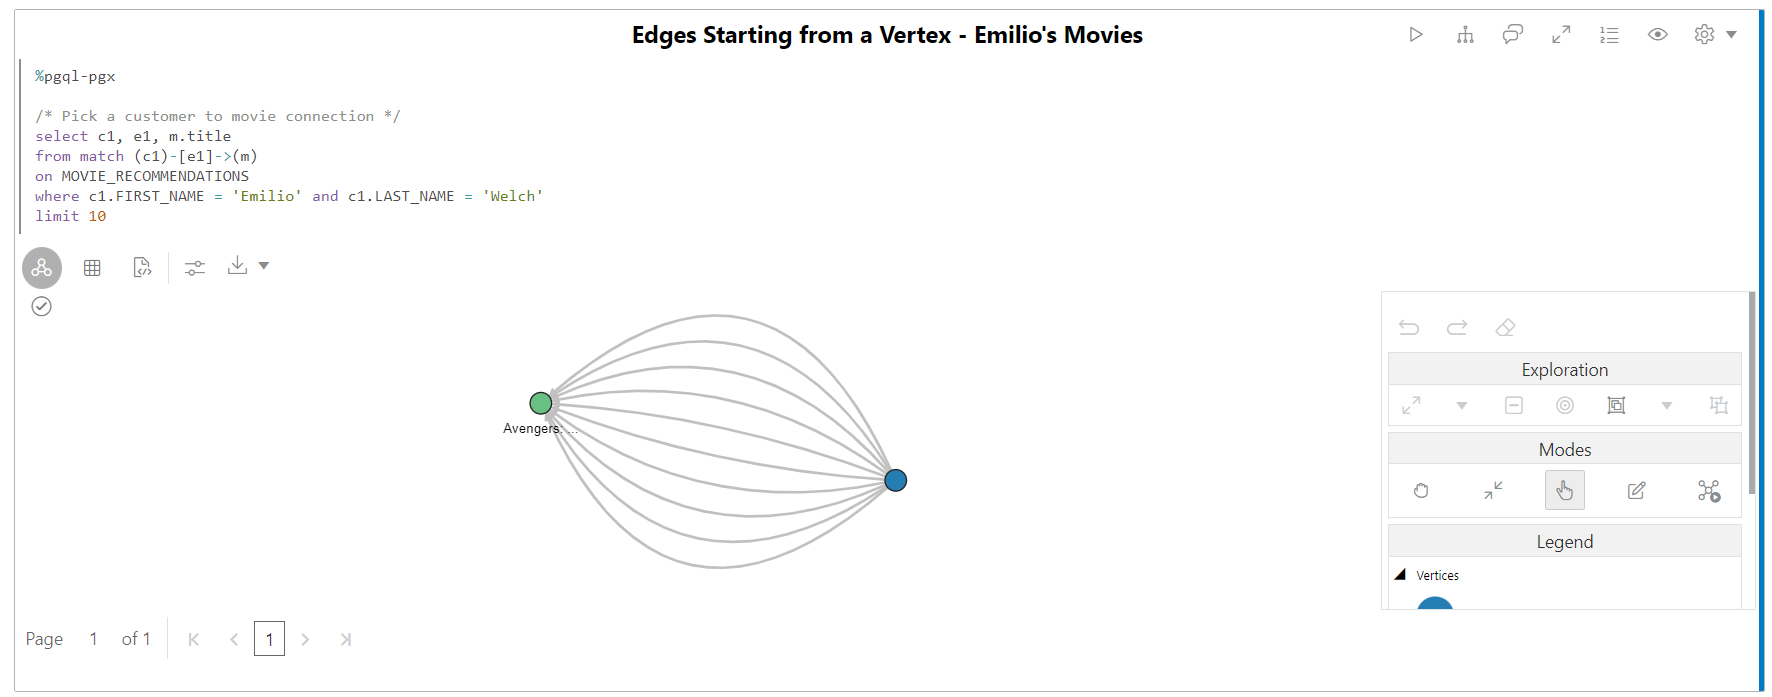
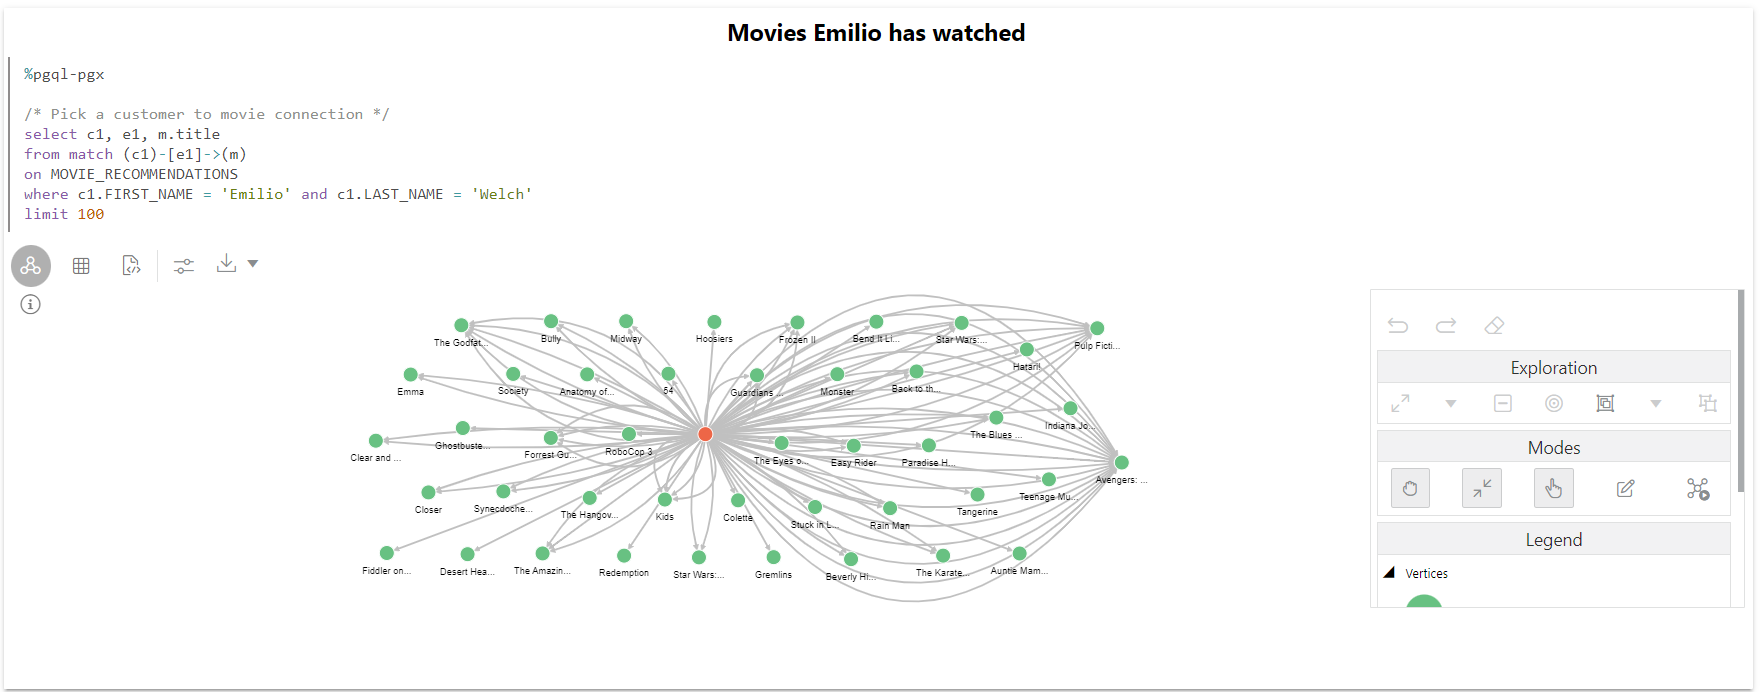
updated livelab

diff --git a/adb-graph/work-with-csv-files/moviestream-graph/query-and-visualize/query-and-visualize.md b/adb-graph/work-with-csv-files/moviestream-graph/query-and-visualize/query-and-visualize.md
@@ -88,69 +88,101 @@ If the compute environment is not ready as yet and the code cannot be executed t
      # try getting the graph from the in-memory graph server
      graph = session.get_graph(GRAPH_NAME);
      # if it does not exist read it into memory
-     if (graph == None) :
+     IF (graph == None) :
          session.read_graph_by_name(GRAPH_NAME, "pg_view")
          print("Graph "+ GRAPH_NAME + " successfully loaded")
          graph = session.get_graph(GRAPH_NAME)
-     else :
+     ELSE :
          print("Graph '"+ GRAPH_NAME + "' already loaded")</copy>
      ```
 
     ![Uploading graph in memory if it's not loaded yet.](images/pythonquery1.png " ")  
 
-2. Next, execute the paragraph which queries and displays 10 movies connected to a specific customer.    
+2. Next, execute the paragraph which queries and displays 100 movies connected to a specific customer.    
 
      ```
      <copy>%pgql-pgx
 
      /* Pick a customer to movie connection */
-     select c1, e1, m.title
-     from match (c1)-[e1]->(m)
-     on MOVIE_RECOMMENDATIONS
-     where c1.FIRST_NAME = 'Emilio' and c1.LAST_NAME = 'Welch'
-     limit 10</copy>
+     SELECT c1, e1, m.title
+     FROM MATCH (c1)-[e1]->(m)
+     ON MOVIE_RECOMMENDATIONS
+     WHERE c1.FIRST_NAME = 'Emilio' and c1.LAST_NAME = 'Welch'
+     LIMIT 100</copy>
      ```
 
-     ![10 movies watched by emilio.](images/ten-movies-watched-by-emilio.png " ")
+    ![100 movies watched by emilio.](images/ten-movies-watched-by-emilio.png " ")
 
-3. This shows the movies that both customers Emilio and Floy have watched.
+3. This shows the number of movies Emilio has watched.
 
      ```
      <copy>%pgql-pgx
 
-     /* Find movies that both customers are connecting to */
-     select c1, e1, m.title, e2, c2
-     from match (c1)-[e1]->(m)<-[e2]-(c2) 
-     on MOVIE_RECOMMENDATIONS
-     where c1.FIRST_NAME = 'Floyd' and c1.LAST_NAME = 'Bryant' and
-     c2.FIRST_NAME = 'Emilio' and c2.LAST_NAME = 'Welch'
-     limit 20)</copy>
+     /* Number of movies Emilio has watched */
+     SELECT COUNT(distinct m.title) AS Num_Watched 
+     FROM MATCH (c) -[e]-> (m) 
+     ON MOVIE_RECOMMENDATIONS 
+     WHERE c.cust_id = 1010303</copy>
      ```
 
-    ![movies that both customers are connecting to.](images/emilio-floyd-movies-in-common.png " ")
+    Change the view to table.
 
-4. Let's get some details about Emilio   
+    ![number of movies Emilio has watched.](images/number-of-movies-emilio-wacthed.png " ")
+
+4. Let's get some details on the movies Emilio has watched ordered by number of times he has watched the movies  
 
     Run the paragraph with the following query.
 
      ```
      <copy>%pgql-pgx
 
+    /* Pick a customer to movie connection */
+     SELECT c1, e1, m.title
+     FROM MATCH (c1)-[e1]->(m)
+     ON MOVIE_RECOMMENDATIONS
+     WHERE c1.FIRST_NAME = 'Emilio' AND c1.LAST_NAME = 'Welch'
+     ORDER BY in_degree(m) desc
+     LIMIT 100</copy>
+     ```
+
+    ![some details about Emilio in a table view.](images/emilio-details.png " ") 
+
+5. It would be interesting to see the movies that Emilio and Floyd have both watched. 
+
+    Run the paragraph with the following query. 
+
+     ```
+     <copy>%pgql-pgx
+
+     /* Find movies that both customers are connecting to */
+     SELECT c1, e1, m.title, e2, c2
+     FROM MATCH (c1)-[e1]->(m)<-[e2]-(c2) 
+     ON MOVIE_RECOMMENDATIONS
+     WHERE c1.FIRST_NAME = 'Floyd' AND c1.LAST_NAME = 'Bryant' AND
+     c2.FIRST_NAME = 'Emilio' AND c2.LAST_NAME = 'Welch'
+     LIMIT 100</copy>
+     ```
+
+    ![movies Emilio and Floyed have watched.](images/emilio-and-floyed-watched.png " ") 
+
+6. Let's get some details about Emilio by executing the next paragraph.
+ 
+     ```
+     <copy>%pgql-pgx
+
      /* Get some details about Emilio */
-     select  v.first_name, 
+     SELECT  v.first_name, 
          v.last_name,
          v.income_level,
          v.gender,
          v.city
-     from match(v) on MOVIE_RECOMMENDATIONS 
-     where v.cust_id = 1010303</copy>
+     FROM MATCH(v) ON MOVIE_RECOMMENDATIONS 
+     WHERE v.cust_id = 1010303</copy>
      ```
 
-    Change the view to table.
+    ![Emilios properties.](images/emilios-properties.png " ") 
 
-    ![some details about Emilio in a table view.](images/emilio-details.png " ")  
-
-5.  Now let's use python with graph algorithms to recommend movies.
+7.  Now let's use python with graph algorithms to recommend movies.
     Let's list the graphs in memory before running some algorithms.
 
     Execute the following query.
@@ -164,7 +196,7 @@ If the compute environment is not ready as yet and the code cannot be executed t
 
     ![checking if the graph is in memory.](images/graph-in-memory-check.png " ")
 
-6. We need to first create a bipartite graph so that we can run algorithms such as PerSonalized SALSA which take a bipartite graph as input.  
+8. We need to first create a bipartite graph so that we can run algorithms such as PerSonalized SALSA which take a bipartite graph as input.  
     
     Execute the following query.
 
@@ -180,14 +212,14 @@ If the compute environment is not ready as yet and the code cannot be executed t
 
     ![create a bipartite graph BIP_GRAPH from MOVIE_RECOMMENDATIONS so that we can run algorithms, such as Personalized SALSA, which take a bipartite graph as input.](images/create-bipartite-graph.png " ")  
 
-7. Let's apply the Personlized SALSA algorithm to recommend movies to Emilio
+9. Let's apply the Personlized SALSA algorithm to recommend movies to Emilio
 
     Execute the paragraph containing the following code snippet.
  
      ```
      <copy>%python-pgx
      # Query the graph to get Emilio's vertex.
-     rs = bgraph.query_pgql("select v from match(v) where v.cust_id = 1010303")
+     rs = bgraph.query_pgql("SELECT v FROM MATCH(v) WHERE v.cust_id = 1010303")
 
      # set the cursor to the first row then get the vertex (element)
      rs.first()
@@ -201,7 +233,7 @@ If the compute environment is not ready as yet and the code cannot be executed t
 
     ![applying personalized salsa to recommen movies to emilio.](images/emilio-movie-recommendation.png " ")  
 
-8. The following query will display the movies that have the highest personlized salsa scores and have not been previously watched by Emilio.
+10. The following query will display the movies that have the highest personlized salsa scores and have not been previously watched by Emilio.
 
      ```
      <copy>%pgql-pgx
@@ -224,7 +256,7 @@ If the compute environment is not ready as yet and the code cannot be executed t
 
     ![movies that have the highest personalized salsa scores and were not previously rented by emilio.](images/movies-based-on-salsa.png " ")  
 
-10. Lastly we will save the recommendations to the database.
+11. Lastly we will save the recommendations to the database.
 
      ```
      <copy>%python-pgx
@@ -253,6 +285,81 @@ If the compute environment is not ready as yet and the code cannot be executed t
      ```  
 
     ![saving the movie recommendations in the database.](images/save-recommendations-database.png " ")  
+
+12. By running this query we are listing the top 20 customers with similar viewing habits to Emilio based on the highest personalized salsa score.
+
+     ```
+     <copy>%%pgql-pgx
+
+     /* List top 20 customers with similar viewing habits to Emilio, i.e. those with the highest score/rank */
+     SELECT c.first_name, c.last_name, c.personalized_salsa 
+     FROM MATCH (c) on BIP_GRAPH
+     WHERE c.cust_id <> 1010303 
+     ORDER BY c.personalized_salsa DESC 
+     LIMIT 20</copy>
+     ```
+
+    Change the view to table.
+
+    ![lists top 20 customers similar to Emilio.](images/20-customers.png " ") 
+
+13. Let's take a look at the movies Emilio has watched most often. 
+
+    Execute the paragraph containing the following code snippet.
+ 
+     ```
+     <copy>%pgql-pgx
+
+     /* Movies Emilio has watched most often */
+     SELECT m.title, count (m.title) AS NumTimesWatched 
+     FROM MATCH (c) -[e]-> (m) ON MOVIE_RECOMMENDATIONS
+     WHERE c.cust_id = 1010303 
+     GROUP BY m.title 
+     ORDER BY NumTimesWatched DESC )</copy>
+     ```
+
+    ![most watched movies by Emilio.](images/most-watched-movie.png " ") 
+
+14. Now, let's take a look at the movies Timmy has watched more often. 
+
+     ```
+     <copy>%pgql-pgx
+
+     /* Movies Emilio has watched most often */
+     SELECT m.title, COUNT (m.title) AS NumTimesWatched 
+     FROM MATCH (c) -[e]-> (m) ON MOVIE_RECOMMENDATIONS
+     WHERE c.cust_id = 1010303 
+     GROUP BY m.title 
+     ORDER BY NumTimesWatched DESC)</copy>
+     ```
+
+    ![most watched movies by Timmy.](images/timmys-most-watched.png " ") 
+
+15. Let's find the movies that have the highest personalized salsa score which Emilio haven't watched previously. 
+
+     ```
+     <copy>%pgql-pgx
+
+     /* Select the movies that have the highest personalized salsa scores
+     and were not previously watched by Emilio */
+     SELECT m.title, m.personalized_salsa
+     FROM MATCH (m) ON BIP_GRAPH
+     WHERE LABEL(m) = 'MOVIE'
+     AND NOT EXISTS (
+     SELECT *
+     FROM MATCH (c)-[:custsales_promotions]->(m) ON BIP_GRAPH
+     WHERE c.cust_id = 1010303
+     )
+     AND EXISTS (
+     SELECT *
+     FROM MATCH (c)-[:custsales_promotions]->(m) ON BIP_GRAPH
+     WHERE c.first_name = 'Timmy' and c.last_name = 'Gardner'
+     )
+     ORDER BY m.personalized_salsa DESC
+     LIMIT 20</copy>
+     ```
+
+    ![most watched movies by Timmy.](images/timmys-most-watched.png " ") 
 
     This concludes this lab.
 

diff --git a/adb-graph/work-with-csv-files/moviestream-graph/create-graph/create-graph-tenancy.md b/adb-graph/work-with-csv-files/moviestream-graph/create-graph/create-graph-tenancy.md
@@ -16,7 +16,33 @@ Learn how to
 - The following lab requires an Autonomous Database - Shared Infrastructure account.
 - And that the Graph-enabled user exists. That is, a database user with the correct roles and privileges exists.
 
-## Task 1: Create Graph
+## Task 1: Access the Autonomous Database 
+
+1. Click the **Navigation Menu** in the upper left, navigate to **Oracle Database**, and select **Autonomous Database**.
+
+    ![Navigating to Autonomous Database.](images/navigation-menu.png " ") 
+
+2. Select your **compartment**, and click on the **Display Name** for the **Autonomous Database**. 
+
+    ![Selecting Autonomous Database in the Navigation Menu.](images/select-autonomous-database.png " ") 
+
+## Task 2: Log into Graph Studio
+
+Graph Studio is a feature of Autonomous Database. It is available as an option on the Database Actions Launchpad. You need a graph-enabled user to log into Graph Studio. When you created the MOVIESTREAM user in Lab 2, you had graph-enabled that user.
+
+1. In your **Autonomous Database Details page** page, click the **Database Actions**.
+
+    ![Click the Database Actions button.](images/click-database-actions.png " ")    
+
+2. On the Database Actions panel, click **Graph Studio**.
+
+    ![Click Open Graph Studio.](images/graphstudiofixed.png " ")
+
+3. Log in to Graph Studio. Use the credentials for the graph user. **Username: MOVIESTREAM** and **password: watchS0meM0vies#**.
+
+    ![Use the credentials for database user MOVIESTREAM.](images/graph-login.png " ")
+
+## Task 3: Create Graph
 
 1. Click the **Graph** icon to navigate to create your graph.  
     Then click **Create**.  
@@ -86,7 +112,7 @@ Learn how to
 
 8. Click **Next** and then click **Create Graph** to move on to the next step in the flow.   
 
-    Enter `MOVIE_RECOMMENDATIONS` as the graph name.  
+    Enter **`MOVIE_RECOMMENDATIONS`** as the graph name.  
     That graph name is used throughout the next lab.  
     Do not enter a different name because then the queries and code snippets in the next lab will fail.  
 

diff --git a/adb-graph/work-with-csv-files/moviestream-graph/setup/setup.md b/adb-graph/work-with-csv-files/moviestream-graph/setup/setup.md
@@ -18,18 +18,18 @@ The instructions below will show you how to run a stack that will automatically 
 
 1. Login to the Oracle Cloud.
 
-2.  Once logged in, use this [link](https://cloud.oracle.com/resourcemanager/stacks/create?zipUrl=https://github.com/oracle-quickstart/oci-arch-graph/releases/latest/download/orm-graph-stack.zip) to create and run the Stack.
+2.  Once logged in, use this [link](https://cloud.oracle.com/resourcemanager/stacks/create?zipUrl=https://objectstorage.us-ashburn-1.oraclecloud.com/p/ViRQisTk4E8eutjgkVQd7YBVhjUUqH0wGo0RB9IKAPr6g5nY2Ov_L-E-JN6OJYcZ/n/oradbclouducm/b/moviestream_livelab/o/MovieStream_live_lab_7.zip) to create and run the Stack.
   > Note: the link will open in a new tab or window.
 
 3. You will be directed to this page:
 
   ![The create stack page](./images/create-stack.png "")
 
-4.  Check the "I have reviewed and accept the Oracle Terms of Use" box and choose your compartment. Leave the rest as default. Click **Next**.
+4.  Check the "I have reviewed and accept the Oracle Terms of Use" box and choose your **compartment**. Leave the rest as default. Click **Next**.
 
   ![Option to have reviewed and accept the Oracle Terms of Use checked](./images/oracle-terms.png "")
 
-5. Select the **compartment** to create the Autonomous Database and the **Database Type as Always Free Oracle Autonomous Database Warehouse**. Click **Next**. After that you will be taken to the Review page, click **Create**.
+5. Select the **compartment** to create the Autonomous Database and the **region** where all resources will be created. Click **Next**. After that you will be taken to the Review page, click **Create**.
 
   ![The create stack page](./images/configure-variables.png "")
 
